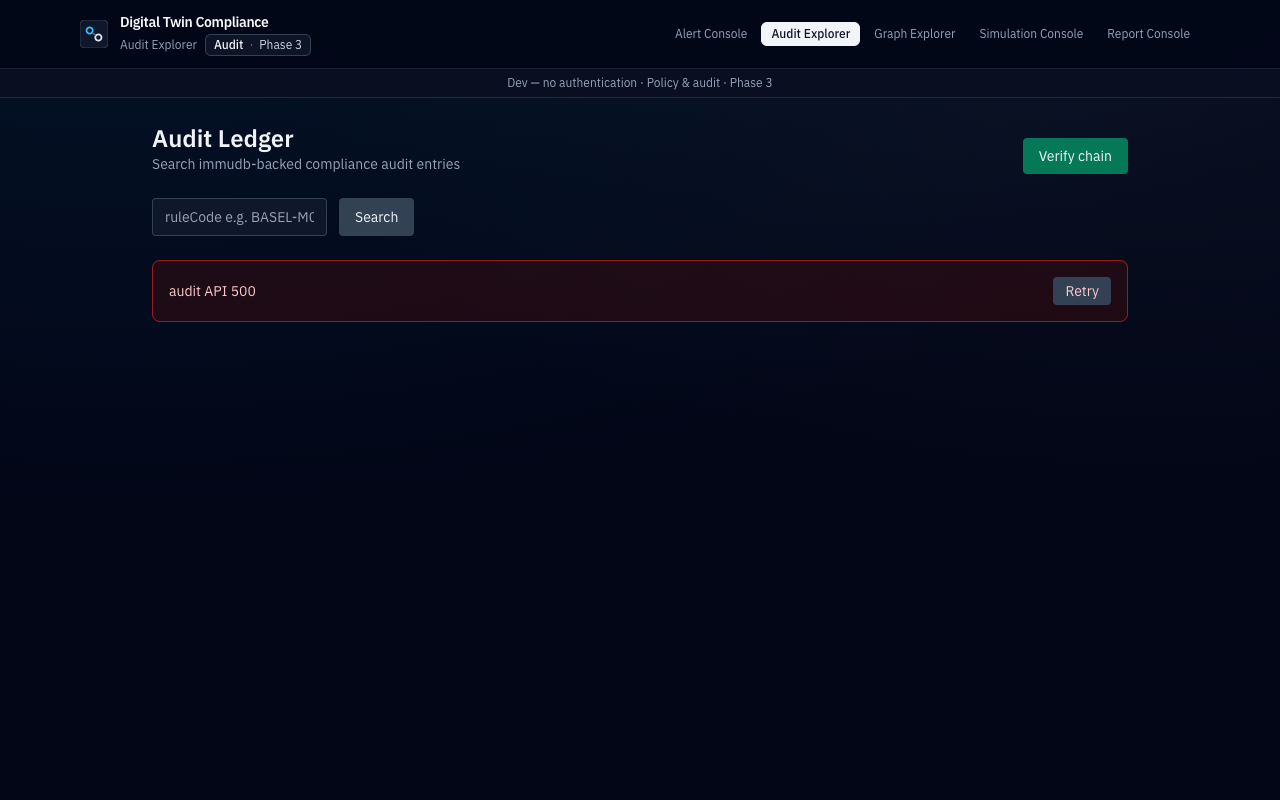
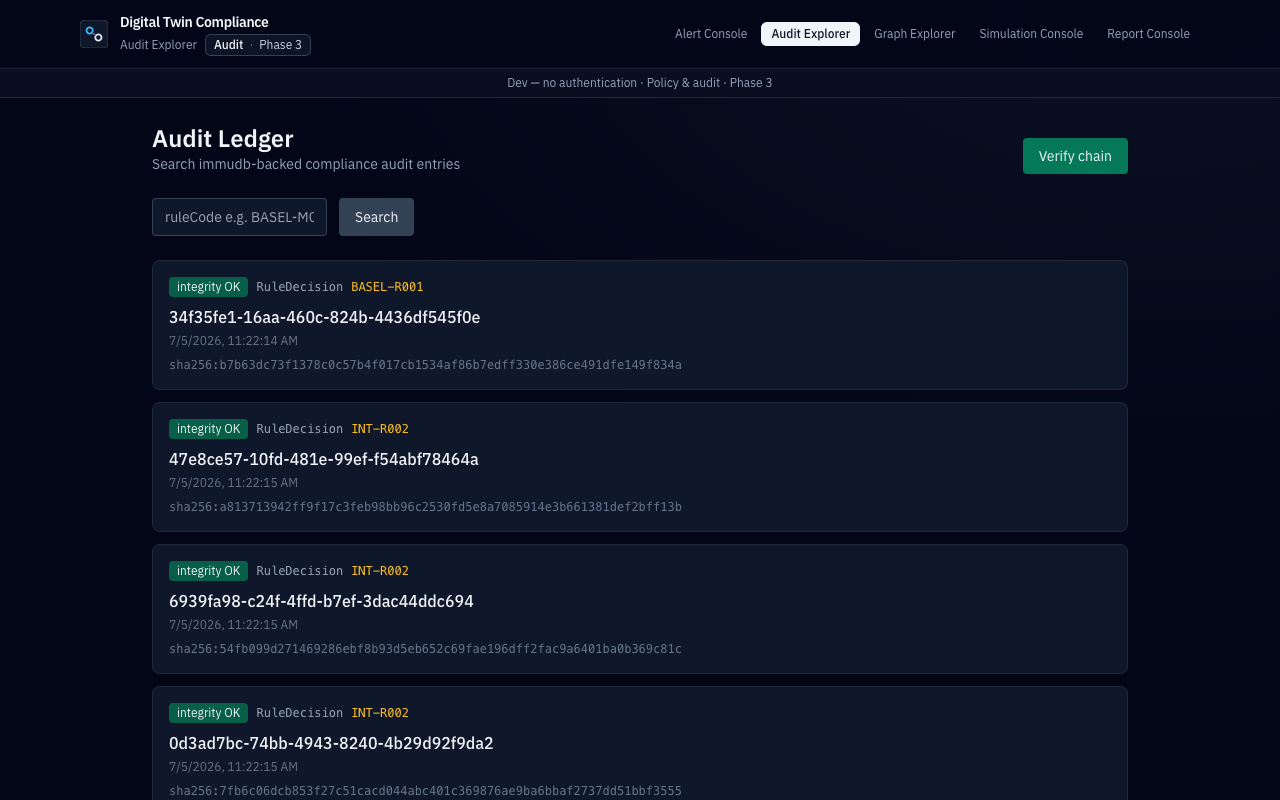
docs: capture healthy five-console demo GIF (#118)
Recapture Audit/Graph without API error banners and make demo.gif cycle all five consoles.

diff --git a/README.md b/README.md
@@ -13,7 +13,7 @@ Open-source **cutting-edge OSS supervisory** financial-compliance digital-twin r
 [![License](https://img.shields.io/github/license/SafetyMP/Digital-Twin-Compliance)](LICENSE)
 
 <p align="center">
-  <img src="docs/assets/demo.gif" alt="Digital Twin demo — Alert Console compliance alert linked to Audit Explorer integrity proof" width="900" />
+  <img src="docs/assets/demo.gif" alt="Digital Twin demo — Alert, Audit, Graph, Simulation, and Report consoles with shared app switcher" width="900" />
 </p>
 
 ## Screenshots
